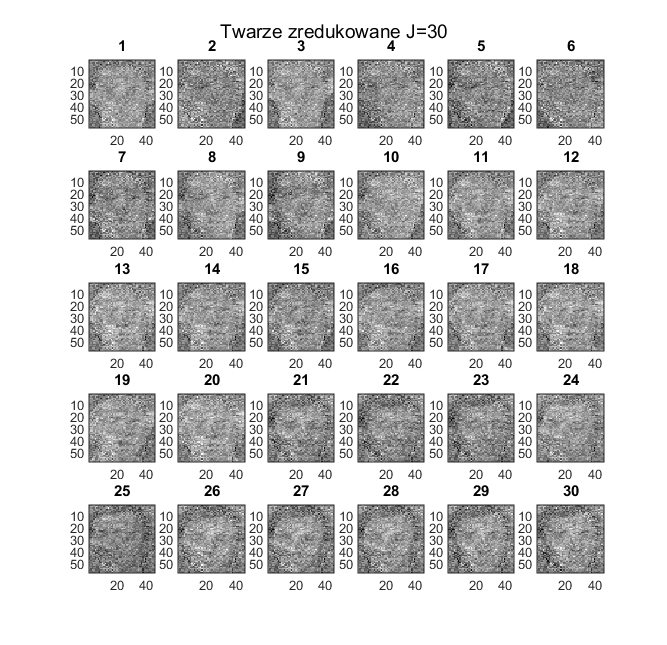
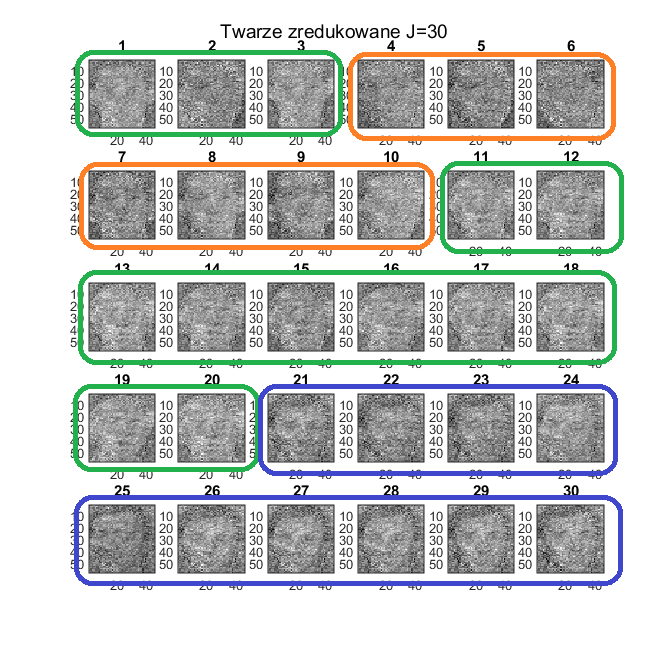
Pogrupowane zdjęcia

diff --git a/zdunek_cw1/zdunekcw1.tex b/zdunek_cw1/zdunekcw1.tex
@@ -348,7 +348,7 @@ Wyniki grupowania dla twarzy własnych dla różnych wartości J przedstawiono w
 \end{figure}
 
 \fbi
-W tym przypadku algorytm musiał przypisać 4 zdjęcia 3 osób do 3 grup, co udało mu się wykonać bardzo dobrze. 
+W tym przypadku algorytm przypisywał większość twarzy do jednej osoby, aż do momentu, gdy zdjęcie znacznie się wyróżniało. Nie poradził sobie poprawnie z rozpoznaniem ostatniej z osób, gdyż jej zdjęcia zostały przypisane do dwóch różnych grup.
 
 
 \begin{figure}[H]
@@ -360,7 +360,7 @@ W tym przypadku algorytm musiał przypisać 4 zdjęcia 3 osób do 3 grup, co uda
 
 
 \fbi
-Dla J=10 algorytm się pogubił, nie potrafił dokładnie określić, które zdjęcia należą do odpowiedniej osoby.
+Dla J=10 algorytm się okazał się skuteczniejszy niż we wcześniejszym przypadku. Zdjęcia pogrupowane zostały prawie idealnie. Tylko jedno ze zdjęć zostało błędnie przypisane.
 
 
 \begin{figure}[H]
@@ -371,8 +371,7 @@ Dla J=10 algorytm się pogubił, nie potrafił dokładnie określić, które zdj
 \end{figure}
 
 \fbi
-W przypadku J=20 większość zdjęć została zamazana zostawiając tylko kontur twarzy. Algorytm wykorzystał ten kontur by podporządkować te zdjęcia w jedną grupę.
-Druga~i trzecia grupa została przypisana do zdjęć, w których twarz jest lepiej określona.
+W tym przypadku algorytm popełnił więcej błędów, niepoprawnie klasyfikując zdjęcia pierwszej osoby. Zdjęcia trzeciej z osób zostały przypisane poprawnie, ponieważ wyróżniają się dużo bardziej niż pozostałe.
 
 
 \begin{figure}[H]
@@ -383,10 +382,7 @@ Druga~i trzecia grupa została przypisana do zdjęć, w których twarz jest lepi
 \end{figure}
 
 \fbi
-Tak samo jak w przypadku wcześniej, algorytm pogrupował twarze według jakości zdjęcia. Zdjęcia, które w wyniku obróbki utraciły jakość zostały przyporządkowane do jednej grupy, co zaznaczone zostało kolorem niebieskim.
-
-\fbi
-Pozostałe zdjęcia przypisane zostały niemal losowo, wyniki to z faktu utraty zbyt dużej ilości danych by rozpoznać osobę i jednocześnie zbyt małej by wpisać zdjęcie do wcześniejszej wspomnianej grupy.
+Dla J=30 algorytm pogrupował zdjęcia popełniając ten sam błąd co w przypadku J=20. Zdjęcia pierwszej osoby zostały przypisane zarówno do pierwszej~i drugiej grupy. Mimo dużej utraty jakości zdjęcia grupa trzecia została przypisana zgodnie z rzeczywistością.
 
 \subsection{Klasyfikacja za pomocą klasyfikatora k-NN}
 \paragraph{}
